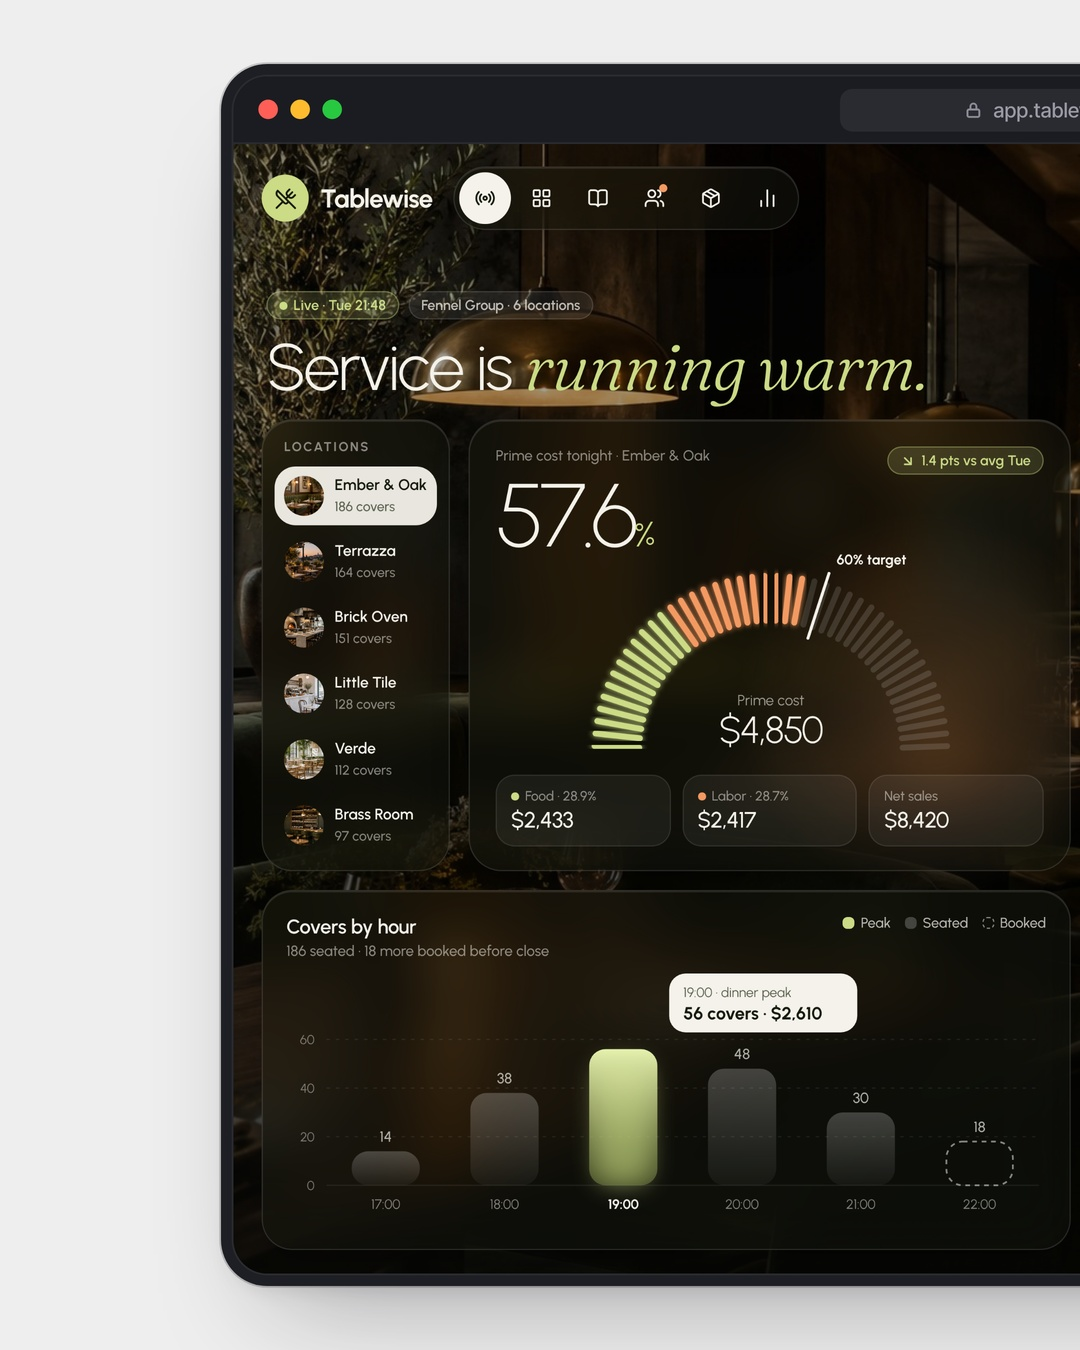
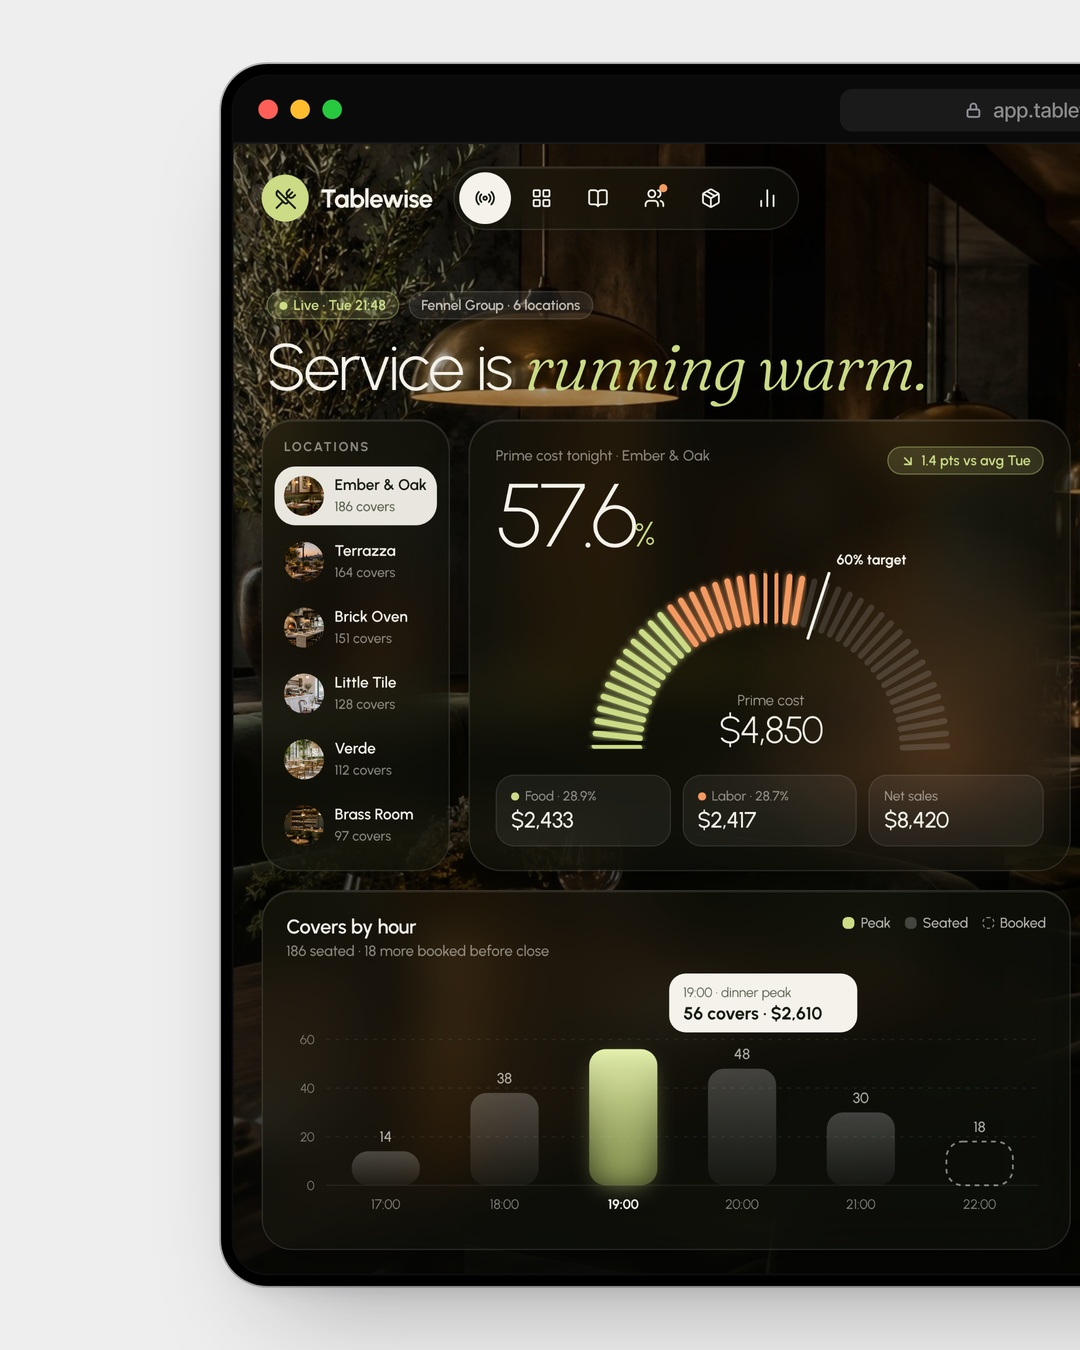
Browser mockup frame to full black
Claude-Session: https://claude.ai/code/session_01Rx7czzT9PpRg1HyNHJDzdx

Changed region(s): [[0.1833, 0.0311, 1.0, 0.9333], [0.2139, 0.9333, 1.0, 0.9644]]

diff --git a/tools/render.py b/tools/render.py
@@ -107,10 +107,10 @@ html,body,.stage{background:#101114}
 DARK_FRAME = _os.environ.get('FRAME', 'dark') == 'dark'
 if DARK_FRAME and not DARK:
     STAGE_CSS += """
-.frame{background:#1E1F24;box-shadow:0 0 0 1px rgba(0,0,0,.18),0 34px 60px -30px rgba(20,20,30,.38),0 6px 14px -8px rgba(20,20,30,.18)}
-.inner{background:#16171B;box-shadow:0 0 0 1px rgba(255,255,255,.06)}
-.bar{background:#1B1C21;border-bottom:1px solid #2A2B31}
-.url span{background:#2A2B31;color:#9A9BA5}
+.frame{background:#000000;box-shadow:0 0 0 1px rgba(0,0,0,.25),0 34px 60px -30px rgba(20,20,30,.38),0 6px 14px -8px rgba(20,20,30,.18)}
+.inner{background:#000000;box-shadow:0 0 0 1px rgba(255,255,255,.05)}
+.bar{background:#0A0A0A;border-bottom:1px solid #1A1A1A}
+.url span{background:#1A1A1A;color:#8C8C8C}
 """
 LOCK = '<svg width="10" height="10" viewBox="0 0 24 24" fill="none" stroke="#8C8C96" stroke-width="2.6" stroke-linecap="round"><rect x="4" y="11" width="16" height="10" rx="2"/><path d="M8 11V7a4 4 0 0 1 8 0v4"/></svg>'
 BAR_ICONS = ('<svg width="15" height="15" viewBox="0 0 24 24" fill="none" stroke="#9A9AA3" stroke-width="2" stroke-linecap="round" stroke-linejoin="round"><path d="M4 12v8a2 2 0 0 0 2 2h12a2 2 0 0 0 2-2v-8"/><polyline points="16 6 12 2 8 6"/><line x1="12" x2="12" y1="2" y2="15"/></svg>'

diff --git a/PLAYBOOK.md b/PLAYBOOK.md
@@ -20,7 +20,7 @@ Do not edit `tools/render.py` or the mockup assets unless the owner asks.
   bright accents that read well on dark. Keep contrast readable (body text at least #B0B0B0-ish on the dark surface).
 - **Studio background stays light #EEEEEE (owner, 2026-11-24):** he tried a dark studio background and rejected it. Only the UI inside the
   window/phone is dark; never render with `STAGE=dark`.
-- **Dark browser mockup (owner, 2026-11-24):** the dashboard/website browser window (frame + address bar) is dark on the #EEEEEE studio.
+- **Dark browser mockup (owner, 2026-11-24):** the dashboard/website browser window (frame + address bar) is full black (#000, bar #0A0A0A, no navy) on the #EEEEEE studio.
   This is the default in tools/render.py (`FRAME=light` brings back the old white window; do not use it unless the owner asks).
 - Unchanged: the locked carousel formats, the #EEEEEE studio background, the mockups (phone, browser window), the brand chrome and the fixed CTA slide.
 - Light designs already made for later slots are kept for history (`light_design_dir` in calendar.json); those slots are `planned`
